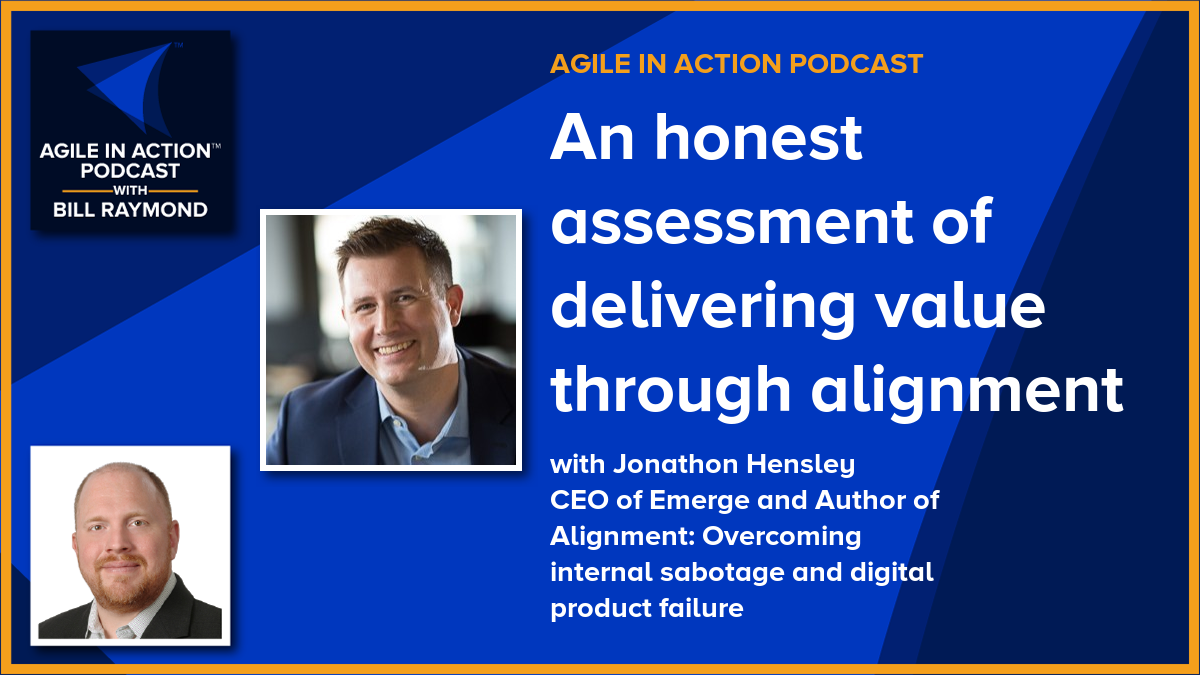
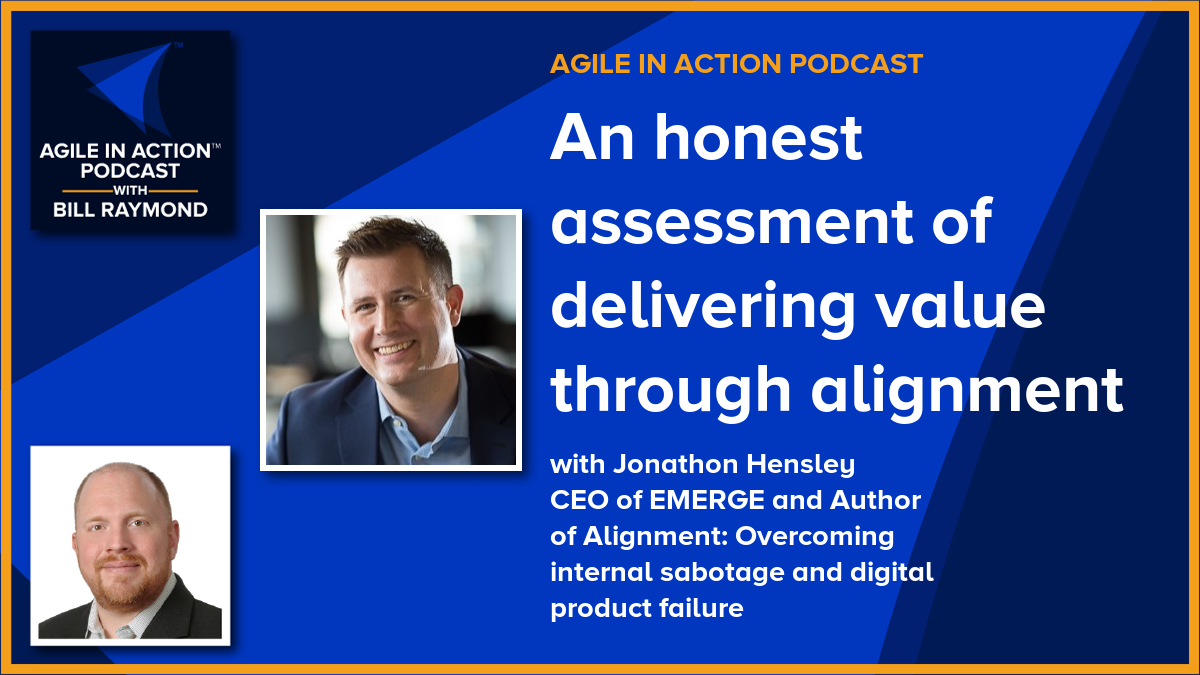
Jekyll build from Action

Changed region(s): [[0.4625, 0.7156, 0.8017, 0.8089]]

diff --git a/agile-in-action-podcast/2023/08/08/an-honest-assessment-of-delivering-value-through-alignment.html b/agile-in-action-podcast/2023/08/08/an-honest-assessment-of-delivering-value-through-alignment.html
@@ -64,11 +64,11 @@
       <time class="dt-published" datetime="2023-08-08T00:00:00+00:00" itemprop="datePublished">Aug 8, 2023
       </time>• <span itemprop="author" itemscope itemtype="http://schema.org/Person"><span class="p-author h-card" itemprop="name">Bill Raymond</span></span></p>
   </header>
-      <h3>Jonathon Hensley,&nbsp;CEO of Emerge and Author of Alignment: Overcoming  internal sabotage and digital product failure</h3>
+      <h3>Jonathon Hensley,&nbsp;CEO of EMERGE and Author of Alignment: Overcoming  internal sabotage and digital product failure</h3>
             <ul><li>
                     <a href="https://www.linkedin.com/in/jonathonhensley/" target="blank">🌎 Jonathon on LinkedIn</a>
                 </li><li>
-                    <a href="https://www.emergeinteractive.com" target="blank">🌎 Emerge Interactive</a>
+                    <a href="https://www.emergeinteractive.com" target="blank">🌎 Jonathon's company: EMERGE</a>
                 </li><li>
                     <a href="https://www.amazon.com/Alignment-Overcoming-internal-sabotage-digital-ebook/dp/B08ZKPKQ6X/ref=sr_1_2?crid=10K36A3W6NFPF&keywords=jonathon+hensley&qid=1689205765&sprefix=jonathon+hensley%2Caps%2C280&sr=8-2" target="blank">📖 Jonathon's book (Alignment: Overcoming internal sabotage and digital product failure)</a>
                 </li></ul>
@@ -76,7 +76,7 @@
     <h2>About this podcast episode</h2>
     <p>🎙 Delivering value starts with alignment</p>
 
-<p>We are excited to introduce you to Jonathon Hensley, CEO of Emerge Interactive and Author of Alignment, to share the importance of delivering value through alignment and how it can lead to successful product development.</p>
+<p>We are excited to introduce you to Jonathon Hensley, CEO of EMERGE and Author of Alignment, to share the importance of delivering value through alignment and how it can lead to successful product development.</p>
 
 <p>Jonathon and Bill explore the concepts of alignment in the context of value creation to create products that meet customers’ needs. By sharing stories and real-world examples, Jonathon shares the four levels of alignment and the importance of each.</p>
 

diff --git a/admin/index.html b/admin/index.html
@@ -39,7 +39,7 @@
 <h2 class="post-list-heading">Latest Agile in Action Podcast with Bill Raymond</h2>
 
 <ul class="post-list"><li><h3>Aug 8, 2023</h3><a href="/agile-in-action-podcast/2023/08/08/an-honest-assessment-of-delivering-value-through-alignment.html"><img src="/uploads/wf-featured-images/2023-08-08-an-honest-assessment-of-delivering-value-through-alignment.png" alt="An honest assessment of delivering value through alignment"></a>
-          <h3><a class="post-link" href="/agile-in-action-podcast/2023/08/08/an-honest-assessment-of-delivering-value-through-alignment.html">An honest assessment of delivering value through alignment</a></h3><strong>with </strong><span class="guest-name" itemprop="name">Jonathon Hensley, CEO of Emerge and Author of Alignment: Overcoming  internal sabotage and digital product failure</span><br>https://agileinaction.com/agile-in-action-podcast/2023/08/08/an-honest-assessment-of-delivering-value-through-alignment.html</li></ul><a href="/allpodcasts">See all podcasts >></a>
+          <h3><a class="post-link" href="/agile-in-action-podcast/2023/08/08/an-honest-assessment-of-delivering-value-through-alignment.html">An honest assessment of delivering value through alignment</a></h3><strong>with </strong><span class="guest-name" itemprop="name">Jonathon Hensley, CEO of EMERGE and Author of Alignment: Overcoming  internal sabotage and digital product failure</span><br>https://agileinaction.com/agile-in-action-podcast/2023/08/08/an-honest-assessment-of-delivering-value-through-alignment.html</li></ul><a href="/allpodcasts">See all podcasts >></a>
 <p></p>
 
 <p class="rss-subscribe">subscribe <a href="https://feeds.libsyn.com/257606/rss?_ga=2.185818153.1879997348.1668636242-117077834.1667517838">via RSS</a></p>
